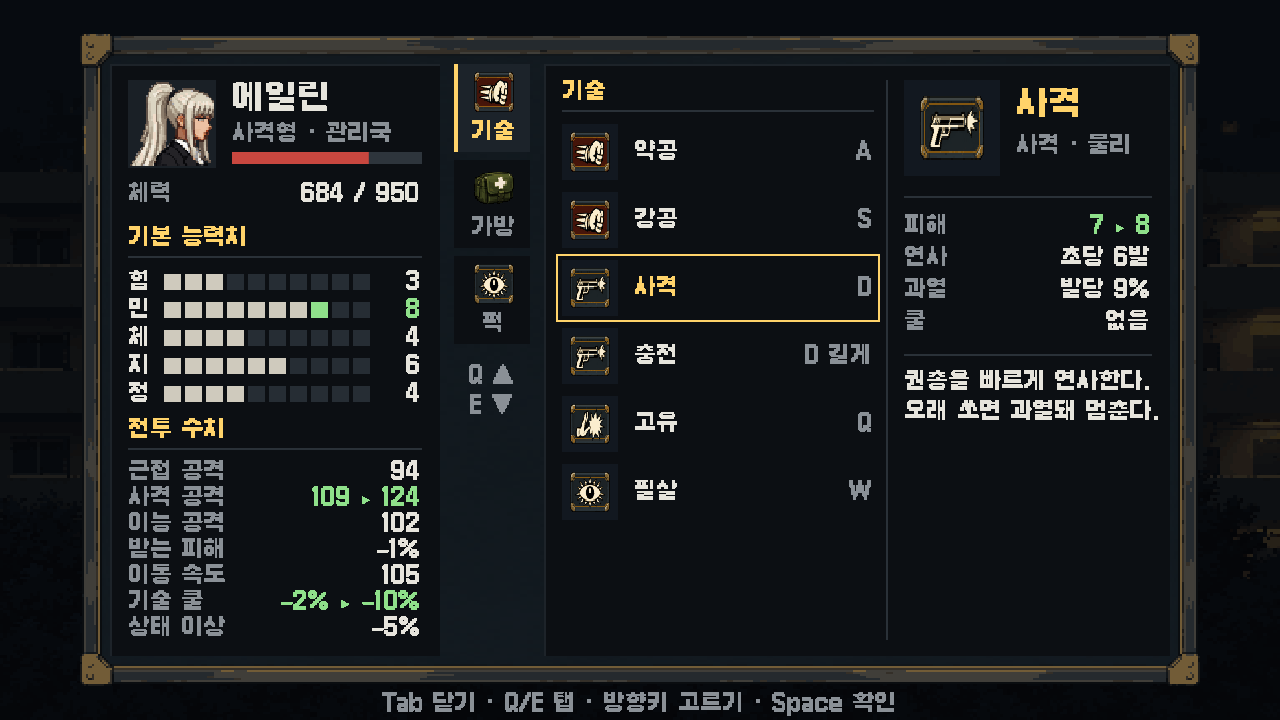
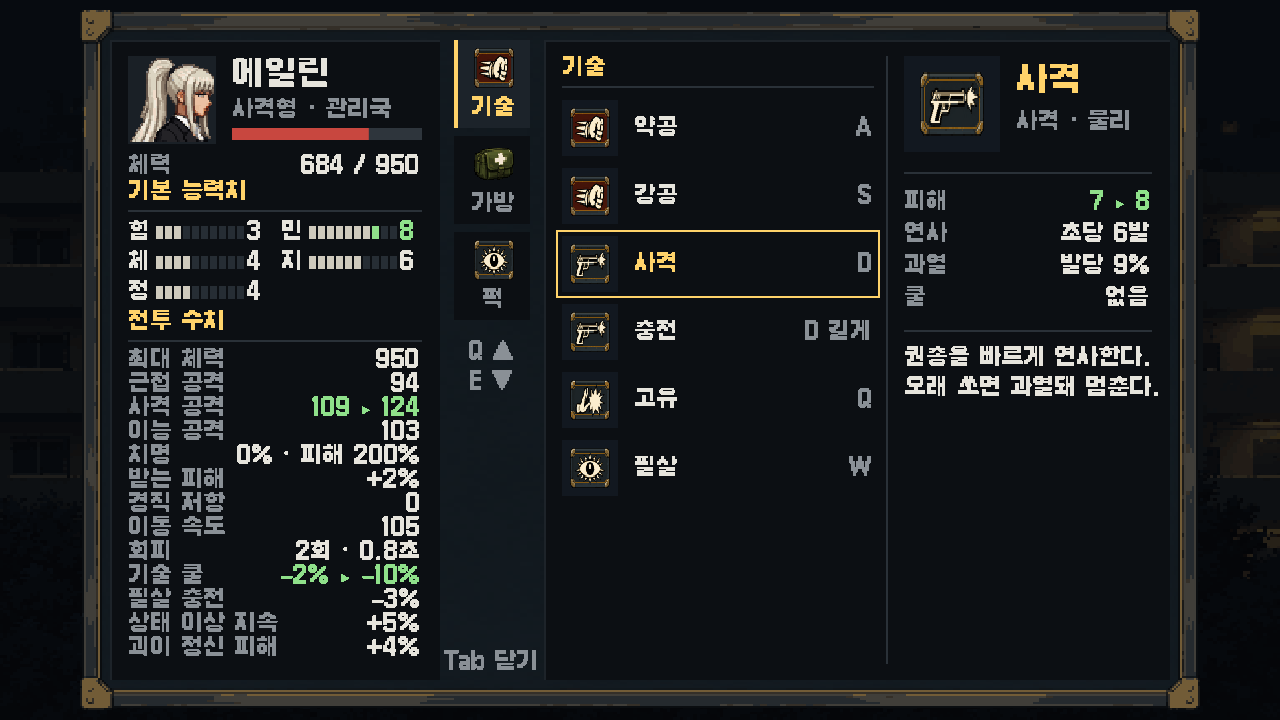
능력치·기술 피해 계산 안(힘민체지정 산출, 전투 수치 14개 공식, 판정 형태·속성, 계산 순서·예시·코드 자리), 통합창 시안: 왼쪽 칸에 전투 수치 전부, 3판에 출동 결정(부상자 제외·시점 전환·복귀 보상·페르소나) 반영
Claude-Session: https://claude.ai/code/session_01JodrzdUrCJ7jVfnwW6NxJm

diff --git a/tools/mock/charwin_mock.ts b/tools/mock/charwin_mock.ts
@@ -38,7 +38,7 @@ async function main() {
   const head = (s: string, x: number, y: number, w: number, right = '') => { T(s, x, y, GOLD); if (right) T(right, x + w, y, DIM, 22, 'right'); hr(x, y + 30, w); };
 
   c.drawImage(img.bg, 0, 0, W, H); c.fillStyle = 'rgba(5,7,10,0.75)'; c.fillRect(0, 0, W, H);
-  const X = 80, Y = 34, WW = 1120, HH = 652;
+  const X = 80, Y = 10, WW = 1120, HH = 700;
   nine('panel', X, Y, WW, HH);
   const P = 30;                       // 틀 안쪽 여백
   const top = Y + P, bot = Y + HH - P;
@@ -53,19 +53,25 @@ async function main() {
   T('에일린', lx + 104, top + 18, INK, 33);
   T('사격형 · 관리국', lx + 104, top + 58, DIM);
   c.fillStyle = '#2e353c'; c.fillRect(lx + 104, top + 88, lw - 104, 12); c.fillStyle = '#c8473f'; c.fillRect(lx + 104, top + 88, (lw - 104) * 0.72, 12);
-  T('체력', lx, top + 118, DIM); T('684 / 950', lx + lw, top + 118, INK, 22, 'right');
-  // 기본 능력치
-  let y = top + 162; head('기본 능력치', lx, y, lw); y += 44;
+  T('체력', lx, top + 114, DIM); T('684 / 950', lx + lw, top + 114, INK, 22, 'right');
+  // 기본 능력치 (2열)
+  let y = top + 140; head('기본 능력치', lx, y, lw); y += 40;
   const stats: [string, number, number][] = [['힘', 3, 0], ['민', 8, 1], ['체', 4, 0], ['지', 6, 0], ['정', 4, 0]];
-  for (const [n, v, up] of stats) {
-    T(n, lx, y, INK);
-    for (let p = 0; p < 10; p++) { c.fillStyle = p < v ? (p >= v - up ? GOOD : '#cfcabd') : '#262d34'; c.fillRect(lx + 36 + p * 21, y + 4, 17, 16); }
-    T(String(v), lx + lw, y, up ? GOOD : INK, 22, 'right'); y += 28;
-  }
-  // 전투 수치 (100 = 기준)
-  y += 8; head('전투 수치', lx, y, lw); y += 42;
-  const der: [string, string, string?][] = [['근접 공격', '94'], ['사격 공격', '109', '124'], ['이능 공격', '102'], ['받는 피해', '−1%'], ['이동 속도', '105'], ['기술 쿨', '−2%', '−10%'], ['상태 이상', '−5%']];
-  for (const [n, a, b] of der) { T(n, lx, y, DIM); T(b ? `${a} ▸ ${b}` : a, lx + lw, y, b ? GOOD : INK, 22, 'right'); y += 26; }
+  stats.forEach(([n, v, up], i) => {
+    const cx = lx + (i % 2) * (lw / 2 + 6), cy2 = y + Math.floor(i / 2) * 30;
+    T(n, cx, cy2, INK);
+    for (let p = 0; p < 10; p++) { c.fillStyle = p < v ? (p >= v - up ? GOOD : '#cfcabd') : '#262d34'; c.fillRect(cx + 28 + p * 9, cy2 + 6, 7, 13); }
+    T(String(v), cx + lw / 2 - 12, cy2, up ? GOOD : INK, 22, 'right');
+  });
+  // 전투 수치 (공격은 100 = 기준)
+  y += 90; head('전투 수치', lx, y, lw); y += 38;
+  const der: [string, string, string?][] = [
+    ['최대 체력', '950'], ['근접 공격', '94'], ['사격 공격', '109', '124'], ['이능 공격', '103'],
+    ['치명', '0% · 피해 200%'], ['받는 피해', '+2%'], ['경직 저항', '0'],
+    ['이동 속도', '105'], ['회피', '2회 · 0.8초'], ['기술 쿨', '−2%', '−10%'], ['필살 충전', '−3%'],
+    ['상태 이상 지속', '+5%'], ['괴이 정신 피해', '+4%'],
+  ];
+  for (const [n, a, b] of der) { T(n, lx, y, DIM); T(b ? `${a} ▸ ${b}` : a, lx + lw, y, b ? GOOD : INK, 22, 'right'); y += 24; }
 
   // ═══ 가운데: 세로 탭 (폭 76)
   const R0 = L + LW + 14;
@@ -140,6 +146,6 @@ async function main() {
     const btn = (s: string, x: number, y: number, w: number) => { nine('row', x, y, w, 44, 2); T(s, x + w / 2, y + 10, INK, 22, 'center'); };
     btn('사용', DX, top + 210, DW); btn('퀵슬롯에 넣기', DX, top + 264, DW); btn('버리기', DX, top + 318, DW);
   }
-  T('Tab 닫기 · Q/E 탭 · 방향키 고르기 · Space 확인', X + WW / 2, Y + HH + 6, DIM, 22, 'center');
+  T('Tab 닫기', R0 + 38, bot - 30, DIM, 22, 'center');
 }
 main();

diff --git a/tools/mock/charwin_mock.js b/tools/mock/charwin_mock.js
@@ -197,7 +197,7 @@
     c.drawImage(img.bg, 0, 0, W, H);
     c.fillStyle = "rgba(5,7,10,0.75)";
     c.fillRect(0, 0, W, H);
-    const X = 80, Y = 34, WW = 1120, HH = 652;
+    const X = 80, Y = 10, WW = 1120, HH = 700;
     nine("panel", X, Y, WW, HH);
     const P = 30;
     const top = Y + P, bot = Y + HH - P;
@@ -213,29 +213,43 @@
     c.fillRect(lx + 104, top + 88, lw - 104, 12);
     c.fillStyle = "#c8473f";
     c.fillRect(lx + 104, top + 88, (lw - 104) * 0.72, 12);
-    T("\uCCB4\uB825", lx, top + 118, DIM);
-    T("684 / 950", lx + lw, top + 118, INK2, 22, "right");
-    let y = top + 162;
+    T("\uCCB4\uB825", lx, top + 114, DIM);
+    T("684 / 950", lx + lw, top + 114, INK2, 22, "right");
+    let y = top + 140;
     head("\uAE30\uBCF8 \uB2A5\uB825\uCE58", lx, y, lw);
-    y += 44;
+    y += 40;
     const stats = [["\uD798", 3, 0], ["\uBBFC", 8, 1], ["\uCCB4", 4, 0], ["\uC9C0", 6, 0], ["\uC815", 4, 0]];
-    for (const [n, v, up] of stats) {
-      T(n, lx, y, INK2);
+    stats.forEach(([n, v, up], i) => {
+      const cx = lx + i % 2 * (lw / 2 + 6), cy2 = y + Math.floor(i / 2) * 30;
+      T(n, cx, cy2, INK2);
       for (let p = 0; p < 10; p++) {
         c.fillStyle = p < v ? p >= v - up ? GOOD : "#cfcabd" : "#262d34";
-        c.fillRect(lx + 36 + p * 21, y + 4, 17, 16);
+        c.fillRect(cx + 28 + p * 9, cy2 + 6, 7, 13);
       }
-      T(String(v), lx + lw, y, up ? GOOD : INK2, 22, "right");
-      y += 28;
-    }
-    y += 8;
+      T(String(v), cx + lw / 2 - 12, cy2, up ? GOOD : INK2, 22, "right");
+    });
+    y += 90;
     head("\uC804\uD22C \uC218\uCE58", lx, y, lw);
-    y += 42;
-    const der = [["\uADFC\uC811 \uACF5\uACA9", "94"], ["\uC0AC\uACA9 \uACF5\uACA9", "109", "124"], ["\uC774\uB2A5 \uACF5\uACA9", "102"], ["\uBC1B\uB294 \uD53C\uD574", "\u22121%"], ["\uC774\uB3D9 \uC18D\uB3C4", "105"], ["\uAE30\uC220 \uCFE8", "\u22122%", "\u221210%"], ["\uC0C1\uD0DC \uC774\uC0C1", "\u22125%"]];
+    y += 38;
+    const der = [
+      ["\uCD5C\uB300 \uCCB4\uB825", "950"],
+      ["\uADFC\uC811 \uACF5\uACA9", "94"],
+      ["\uC0AC\uACA9 \uACF5\uACA9", "109", "124"],
+      ["\uC774\uB2A5 \uACF5\uACA9", "103"],
+      ["\uCE58\uBA85", "0% \xB7 \uD53C\uD574 200%"],
+      ["\uBC1B\uB294 \uD53C\uD574", "+2%"],
+      ["\uACBD\uC9C1 \uC800\uD56D", "0"],
+      ["\uC774\uB3D9 \uC18D\uB3C4", "105"],
+      ["\uD68C\uD53C", "2\uD68C \xB7 0.8\uCD08"],
+      ["\uAE30\uC220 \uCFE8", "\u22122%", "\u221210%"],
+      ["\uD544\uC0B4 \uCDA9\uC804", "\u22123%"],
+      ["\uC0C1\uD0DC \uC774\uC0C1 \uC9C0\uC18D", "+5%"],
+      ["\uAD34\uC774 \uC815\uC2E0 \uD53C\uD574", "+4%"]
+    ];
     for (const [n, a, b] of der) {
       T(n, lx, y, DIM);
       T(b ? `${a} \u25B8 ${b}` : a, lx + lw, y, b ? GOOD : INK2, 22, "right");
-      y += 26;
+      y += 24;
     }
     const R0 = L + LW + 14;
     const tabs = [["skill", "\uAE30\uC220", "attack"], ["item", "\uAC00\uBC29", ""], ["perk", "\uD37D", "ult"]];
@@ -361,7 +375,7 @@
       btn("\uD035\uC2AC\uB86F\uC5D0 \uB123\uAE30", DX, top + 264, DW);
       btn("\uBC84\uB9AC\uAE30", DX, top + 318, DW);
     }
-    T("Tab \uB2EB\uAE30 \xB7 Q/E \uD0ED \xB7 \uBC29\uD5A5\uD0A4 \uACE0\uB974\uAE30 \xB7 Space \uD655\uC778", X + WW / 2, Y + HH + 6, DIM, 22, "center");
+    T("Tab \uB2EB\uAE30", R0 + 38, bot - 30, DIM, 22, "center");
   }
   main();
 })();

diff --git a/docs/설계_능력치_기술피해_안.md b/docs/설계_능력치_기술피해_안.md
@@ -1,0 +1,188 @@
+# 능력치 방식 · 기술 피해 계산 안 (2026-10-30, 결정 전)
+
+`설계_능력치_안.md`(1판)를 자세히 푼 것이다. 숫자는 모두 안이다. 기술마다 매긴 판정 형태·속성 표는 `docs/퍽/기술_속성표.md`(55명)에 따로 둔다.
+
+---
+
+## 1. 결론부터
+
+| 질문 | 안 |
+| --- | --- |
+| 능력치는? | **힘·민·체·지·정 다섯 개(1~10)를 요원마다 고정**하고, 전투 수치는 공식으로 산출한다. 레벨업은 없다 |
+| 조작 상태(유저가 그 요원으로 괴이에 들어감)는? | **다섯 칸 합계 25 고정.** 나누는 모양만 다르다 |
+| NPC 상태(필드·적·동료)는? | 같은 다섯 칸 위에 **등급 배수**(체력·피해·방어막)를 얹는다 |
+| 기술 피해를 키우는 능력치는? | 기술의 **판정 형태**로 정한다. 몸으로 때리면 힘, 총·투척은 민, 이능(초능력·괴이 힘)은 지 |
+| 속성은? | **공격 단위로 붙인다.** 평타는 전원 물리이고, 기술은 하나하나 매긴다 |
+| 퍽은? | 대부분 전투 수치를 바로 바꾼다. 드물게 기본 능력치 +1. 「힘 7 이상」 같은 출현 조건을 걸 수 있다 |
+
+왜 산출 방식인가:
+- 인물 개성이 숫자 다섯 개로 한눈에 보인다. 통합창 왼쪽 칸에 그대로 나온다.
+- 퍽 출현 조건을 걸 수 있다(폴아웃 방식). 같은 공용 퍽 목록이어도 인물마다 나오는 퍽이 달라진다.
+- 직접 항목 방식이면 인물끼리 비교하기 어렵고, 조건을 걸 곳이 없다.
+
+---
+
+## 2. 기본 능력치
+
+| 능력치 | 뜻 | 주로 키우는 것 |
+| --- | --- | --- |
+| 힘 | 몸 쓰는 힘 | 몸 판정 피해 |
+| 민 | 손놀림·몸놀림 | 총·투척 피해, 이동 속도 |
+| 체 | 맷집 | 최대 체력, 받는 피해 |
+| 지 | 기술 운용 | 이능 판정 피해, 기술 쿨 |
+| 정 | 정신력 | 필살 충전, 받는 피해, 상태 이상, 괴이 정신 피해 |
+
+- 범위 1~10, 기준 5.
+- 조작 상태 합계 25(전부 5인 사람이 기준). 9 이상은 한 칸만 허용하는 안이다(한쪽으로 몰빵 방지).
+- 정해 나가는 순서:
+  1. 기획서 5.1의 8명 4축(생존·화력·기동·제어)을 옮긴다.
+  2. 나머지 47명은 역할(role)로 기본 분배를 넣는다.
+  3. 설정을 보며 한 명씩 고친다.
+
+| 역할 | 기본 분배 (힘/민/체/지/정) |
+| --- | --- |
+| tank 방패 | 6 / 3 / 8 / 3 / 5 |
+| bruiser 돌격 | 8 / 4 / 6 / 3 / 4 |
+| striker 타격 | 6 / 8 / 4 / 3 / 4 |
+| ranged 사격 | 3 / 8 / 4 / 5 / 5 |
+| control 제어 | 3 / 4 / 4 / 8 / 6 |
+| support 지원 | 3 / 4 / 5 / 6 / 7 |
+
+---
+
+## 3. 전투 수치 (통합창 왼쪽 칸에 전부 나옴)
+
+| 전투 수치 | 공식 | 1일 때 | 5일 때 | 10일 때 | 퍽으로 바뀜 | 코드 자리 |
+| --- | --- | --- | --- | --- | --- | --- |
+| 최대 체력 | 750 + 체 × 50 | 800 | 1,000 | 1,250 | ○ | `progression` hp |
+| 근접 공격 | 100 + (힘 − 5) × 3 | 88 | 100 | 115 | ○ | `power` |
+| 사격 공격 | 100 + (민 − 5) × 3 | 88 | 100 | 115 | ○ | `aim` |
+| 이능 공격 | 100 + (지 − 5) × 3 | 88 | 100 | 115 | ○ | 새 칸 |
+| 치명 확률 | 0% (능력치와 무관) | | | | 퍽만 | 새로 |
+| 치명 피해 | 200% (능력치와 무관) | | | | 퍽만 | 새로 |
+| 받는 피해 | 100% − (체 − 5)% − (정 − 5)% | 108% | 100% | 90% | ○ | `defense` |
+| 경직 저항 | 0 (능력치와 무관) | | | | 퍽만(3 = 넘어지지 않음) | `poise` |
+| 이동 속도 | 100 + (민 − 5) × 1.5 | 94 | 100 | 107.5 | ○ | `speed` |
+| 회피 | 2회 · 0.8초 (능력치와 무관) | | | | 퍽만 | `dodgeMax`·`dodgeCd` |
+| 기술 쿨 | 100% − (지 − 5) × 2% | 108% | 100% | 90% | ○ | `setCd` |
+| 필살 충전 | 100% + (정 − 5) × 3% | 88% | 100% | 115% | ○ | `charge`(`spMul`) |
+| 상태 이상 지속 | 100% − (정 − 5) × 5% | 120% | 100% | 75% | ○ | `combat/status.ts` |
+| 괴이 정신 피해 | 100% − (정 − 5) × 4% | 116% | 100% | 80% | ○ | 새로 |
+
+- 한 칸당 폭을 작게 둔다. 그래서 누구를 골라도 같은 출발선에서 크게 벗어나지 않는다. 강해지는 것은 퍽이 한다.
+- 치명·경직·회피를 능력치에서 빼는 이유:
+  - 치명은 확률이라 능력치에 붙이면 인물 간 차이가 너무 커진다.
+  - 경직 저항 1·2는 엔진에서 차이가 거의 없다.
+  - 회피는 막 정한 2회 충전 규칙을 흔들지 않기 위해서다.
+- 1판과 바뀐 점: 지가 맡던 필살 충전을 정으로 옮겼다. 지가 이능 피해까지 맡으면 너무 많이 쥐기 때문이다.
+
+### 세 명 예시 (조작 상태, 합계 25)
+
+| | 쟈알디 | 에일린 | 데드폴 |
+| --- | --- | --- | --- |
+| 힘/민/체/지/정 | 8/4/6/4/3 | 3/8/4/6/4 | 5/3/8/3/6 |
+| 최대 체력 | 1,050 | 950 | 1,150 |
+| 근접 / 사격 / 이능 | 109 / 97 / 97 | 94 / 109 / 103 | 100 / 94 / 94 |
+| 받는 피해 | 101% | 102% | 96% |
+| 이동 속도 | 98.5 | 104.5 | 97 |
+| 기술 쿨 | 102% | 98% | 104% |
+| 필살 충전 | 94% | 97% | 103% |
+| 상태 이상 지속 | 110% | 105% | 95% |
+
+---
+
+## 4. 기술 피해 계산
+
+### 4-1. 순서
+
+```
+최종 피해 = 기본 피해
+          × 판정 형태 배율 (근접 공격 / 사격 공격 / 이능 공격 ÷ 100)
+          × (1 + 퍽 보너스 합: 출처 + 속성 + 조건)          ← 더함
+          × 치명 (치명이면 치명 피해 ÷ 100)
+          × 상대 받는 피해
+          × (1 − 상대 속성 저항)
+```
+
+- **기본 피해**: 테스트룸에서 실측해 맞춘 값을 그대로 쓴다.
+  - 평타: 인물 팩 `bal.atk`(줄마다, 한 대 14~27)
+  - 사격: `shotDmg`
+  - 충전·고유기·필살: 기술 자료 안의 `hit.dmg`(충전 75/150/240, 고유기 270, 필살 380/480 언저리)
+- **판정 형태**: 기술마다 하나를 정한다(`기술_속성표.md`).
+
+  | 형태 | 무엇 | 배율 |
+  | --- | --- | --- |
+  | 몸 | 맨손·근접 무기로 직접 때림. 평타·강공·슬라이딩·점프 공격, 몸으로 하는 기술 | 근접 공격(힘) |
+  | 총·투척 | 탄환·던진 물건 | 사격 공격(민) |
+  | 이능 | 초능력·괴이 힘·이펙트로 나가는 공격(폭발·염동·정신 등) | 이능 공격(지) |
+
+- **퍽 보너스**: 모두 한 합에 **더한다**. 예를 들어 「충전 피해 +12%」, 「폭발 피해 +10%」, 「등 뒤 +15%」가 있으면 +37%다. 곱하면 폭주한다(하데스가 초기에 겪고 고친 문제).
+- **곱하는 것**: 치명, 상대 받는 피해, 속성 저항 셋뿐이다.
+
+### 4-2. 속성
+
+| 속성 | 예 | 쓰는 곳 |
+| --- | --- | --- |
+| 물리 | 모든 평타, 총탄, 칼 | 기본 |
+| 폭발 | 쟈알디 근접 폭파, 수류탄 | 괴이·적 속성 저항/약점, 속성 퍽 |
+| 화염 | 화염 기술 | 상태 이상 연결(화상) |
+| 전기 | 감전 기술 | 〃 |
+| 냉기 | 얼음 기술 | 둔화 연결 |
+| 염동 | 좌표 압살·끌어당김 | |
+| 정신 | 공포·환각·속삭임 | 괴이 정신 피해와 짝 |
+| 오염 | 괴이 오염 | 오염 상태와 짝 |
+| 시간 | 데드폴 되감기·정지 | |
+| 빛 | 신성·섬광 | 괴이 특효 후보 |
+
+- 평타는 전원 물리다. 인물이 폭발 계열이어도 평타는 물리다(10-29 사용자 결정).
+- 속성은 지금 엔진에 없다. 타격마다 `src` 대신 {출처, 형태, 속성} 꼬리표를 붙여 넘긴다(4-4).
+
+### 4-3. 계산 예
+
+| 상황 | 계산 | 결과 |
+| --- | --- | --- |
+| 에일린 사격 한 발, 퍽 없음 | 7 × 1.09 | 7.6 → 8 |
+| 에일린 사격, 「정조준」 2랭크(+16%) | 7 × 1.09 × 1.16 | 8.9 → 9 |
+| 쟈알디 고유기 「근접 폭파」(이능·폭발) 270, 퍽 없음 | 270 × 0.97 | 262 |
+| 위에 「고유기 강화」 1(+12%)·「폭발 피해」(+10%)·치명 | 270 × 0.97 × 1.22 × 2.0 | 639 |
+| 같은 기술을 폭발 저항 30% 괴이에게 | 262 × 0.7 | 183 |
+
+### 4-4. 코드에 넣는 자리
+
+| 할 일 | 지금 | 바꿀 곳 |
+| --- | --- | --- |
+| 능력치 → 전투 수치 | `AgentStats` 7칸(hp·power·aim·defense·speed·poise·charge), 주인공 220·AI 160 고정 | `engine/progression.ts`에 힘민체지정과 산출 함수. 인물 팩에 다섯 칸(55명 표) |
+| 판정 형태 배율 | `hurtTarget`이 `src`(ranged·blast) 두 가지로만 힘/사격을 고름(`fighter/player.ts:144`). 나머지는 전부 근접으로 계산됨 | 타격마다 형태 꼬리표. 코어가 피해를 내는 곳 세 군데(평타·기술 타격·탄환)에서 넘김 |
+| 속성 | 없음 | 기술 자료 `hit`에 `el` 한 칸. 값은 `기술_속성표.md`에서 |
+| 퍽 보너스 합 | 없음(`dmgMul` 곱 하나) | 합산기 하나. 출처·속성·조건 보너스를 더함 |
+| 치명 | 에일린 유물 한 곳 | 합산기 다음에 굴림 |
+| 기술 쿨 | `setCd`가 표 값 그대로 | × 기술 쿨 |
+| 필살 충전 | `spMul` | × 필살 충전 |
+| 상태 이상 지속 | `StatusSet` | × 상태 이상 지속 |
+
+- 동작·이펙트·그림은 그대로 쓴다. 바뀌는 것은 숫자 계산뿐이다.
+
+---
+
+## 5. NPC 상태
+
+- 같은 다섯 칸을 쓰고, 그 위에 **등급 배수**를 얹는다(`설계_인물_초기값.md`):
+  - 시민 0.15
+  - 거리 0.3
+  - 훈련 0.6
+  - 숙련 1.0
+  - 적당히 1.3(방어막 20%)
+  - 상당히 2.0(방어막 40%)
+  - 재난급 3.0
+- 이름 없는 몹(시민·경찰·불량배 등 71명)은 원형마다 다섯 칸 한 벌을 쓴다.
+
+---
+
+## 6. 정할 것
+
+1. 산출 방식(이 문서) / 직접 항목 방식
+2. 한 칸당 폭(3장 표)
+3. 합계 25, 9 이상 한 칸만
+4. 치명 피해 기본 200%(하데스는 300%)
+5. 역할별 기본 분배(2장 표)
+6. 판정 형태 3가지(몸·총투척·이능)와 속성 10가지

diff --git a/docs/설계_출동루프_3판.md b/docs/설계_출동루프_3판.md
@@ -306,11 +306,11 @@
 ## 7. 결정 필요
 
 1. ~~임무: 랜덤 / 풀 / 섞음~~ → 지금은 풀도 없다. 나중에 논의한다(10-30)
-2. 「가용 요원」 범위: 본부에 있는 요원만인지, 부상자도 되는지
-3. 시점 전환 뒤 원래 캐릭터를 그 자리에 NPC로 남길지
+2. ~~가용 요원 범위~~ → **본부에 있는 요원만, 부상자는 안 됨**(10-30)
+3. ~~시점 전환~~ → **고른 요원 시점으로 바로 옮겨 조작하고, 원래 캐릭터는 그 자리에 남겨 AI에게 넘긴다**(10-30)
 4. ~~사망 옵션 기본값~~ → **영구 사망**(10-30)
-5. 중간 복귀 때 구조·회수 같은 성과는 보고서에 남길지(퍽은 초기화)
-6. 조작값: 기준 체력 1,000, 4축 한 칸 폭(체력 8%·나머지 5%), 4축 합계를 맞출지
+5. ~~중간 복귀~~ → 괴이는 끝까지 깨라고 만든 게 아니라 **죽든 복귀하든 결국 돌아오게 되어 있다. 보고서는 늘 남는다.** 자의로 복귀하면 성과 일부 유지(획득 수량에 따른 현금 보상), 죽거나 패배해 후송되면 아무것도 없음. **현금 보상은 주인공(채팅 캐릭터)으로 진행했을 때만**이고, 다른 요원으로 진행했으면 주인공 돈은 늘지 않는다(10-30)
+6. 조작값 → 4축 대신 힘민체지정 산출 안으로 넘어감: `설계_능력치_기술피해_안.md`
 7. ~~고유 퍽 종류~~ → **퍽과 특성을 섞는다**(10-30). 통합창·퍽 체계는 `설계_통합창_퍽.md`
 8. ~~보고서 자동 여부~~ → **자동**, 채팅용은 상세하게, 모델용은 간략하게 두 갈래, 본편 연동은 옵션(10-30)
-9. 공용 페르소나 캐릭터를 언제, 어떤 모습으로 만들지
+9. ~~공용 페르소나 캐릭터~~ → **세력별(관리국·가짜 관리국·백일몽·프리랜서·민간인) 남녀 1세트씩, 별도 스레드에서 만든다**(10-30)
